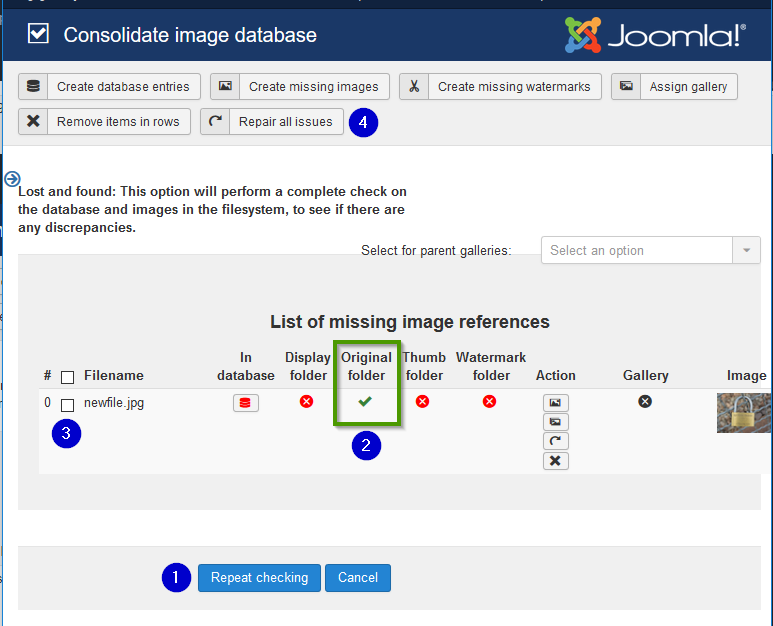
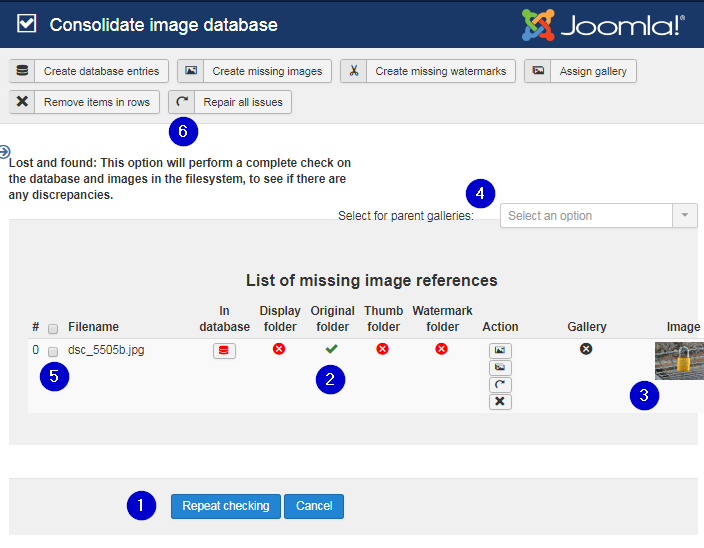
Improved text 4 Back door assignment of images to existing galleries

diff --git a/Documentation/Maintenance/Maint.ConsolidateDb.md b/Documentation/Maintenance/Maint.ConsolidateDb.md
@@ -1,4 +1,4 @@
-M## Maintenance Consolidate image database
+## Maintenance Consolidate image database
 
 In cases where the upload got stuck you may get an error message but can't tell how far the process got. Here you can check the consistency of image references in database and files found in the images folder of RSGallery2
 
@@ -104,27 +104,23 @@ If no files exists to a "lost" database item the result looks like following.
 
 In this case it is best to select the line and use button "Remove items in row" to delete this item in database.
 
-#### -----
-
-### A
-![Upload startview](https://github.com/RSGallery2/RSGallery2_Project/blob/master/Documentation/Images/maintenance.consolidateDb.addImage.png?raw=true)
-
-
-
-
----
-
 ### Back door assignment of images to existing galleries
 
-A indirect way to upload images to RSGallery2 is a copy to the RSGallery2 folder and then use in consolidate images the button "Repair all isues" to create missing files, database links and assign them to a gallery.
+A indirect way to upload images to RSGallery2 is to copy of the image(s) to the RSGallery2 original folder. Go to "consolidate images" view.
 
-##### 1. Upload image
+#### 1. Upload image
 
 Copy your file per FTP into folder .../Joomla/images/rsgallery/original.
+
+#### 2. Create files and database reference
 
 ![Upload startview](https://github.com/RSGallery2/RSGallery2_Project/blob/master/Documentation/Images/maintenance.consolidate.DbAndOriginalImg.png?raw=true)
 
 (1) Use button "Repeat checking" so the image is found<br>
 (2) If the image exists it is marked here <br>
-(3) Select the line with clicking on marker in front<br>
-(4) Use button "Repair all issues". <br>If all goes well then the line of this image will disappear in the next display of the page
+(3) If the image exists it is displayed here <br>
+(4) Select the parent gallery<br>
+(5) Select the line(s) with clicking on marker in front<br>
+(6) Use button "Repair all issues"<br>
+
+If all goes well then the line of the selected image(s) will disappear in the next display of the page
